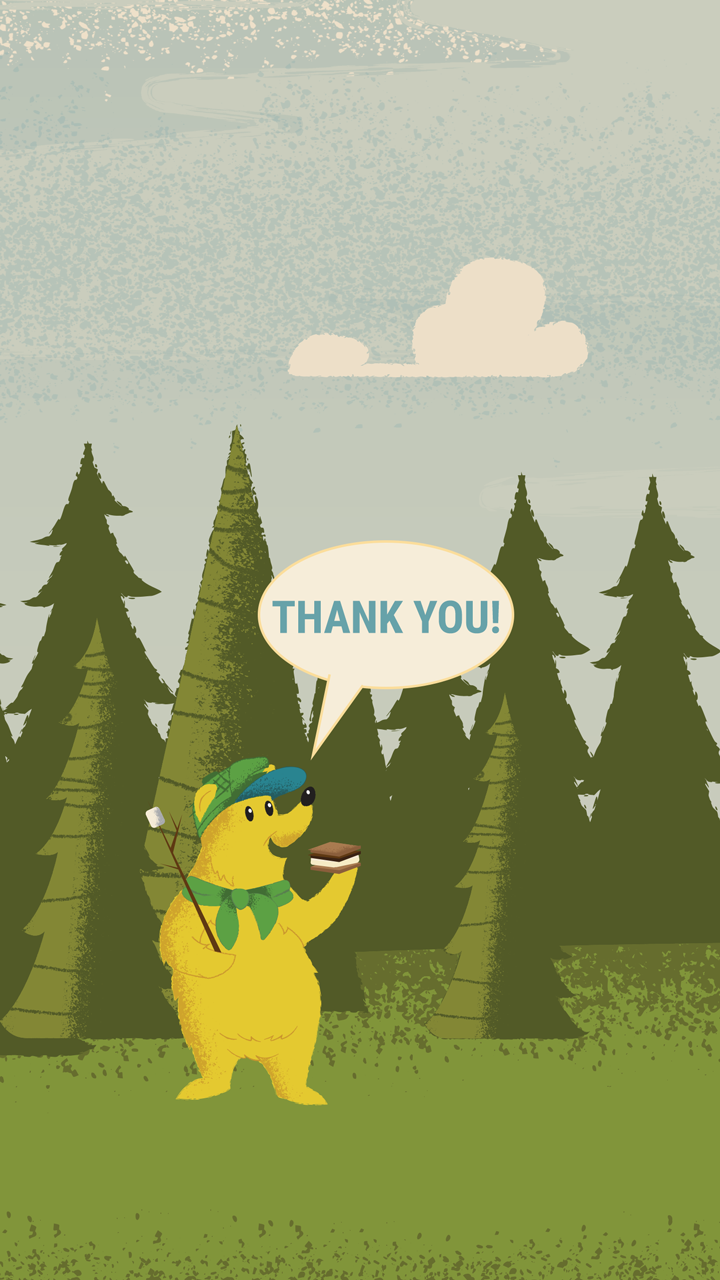
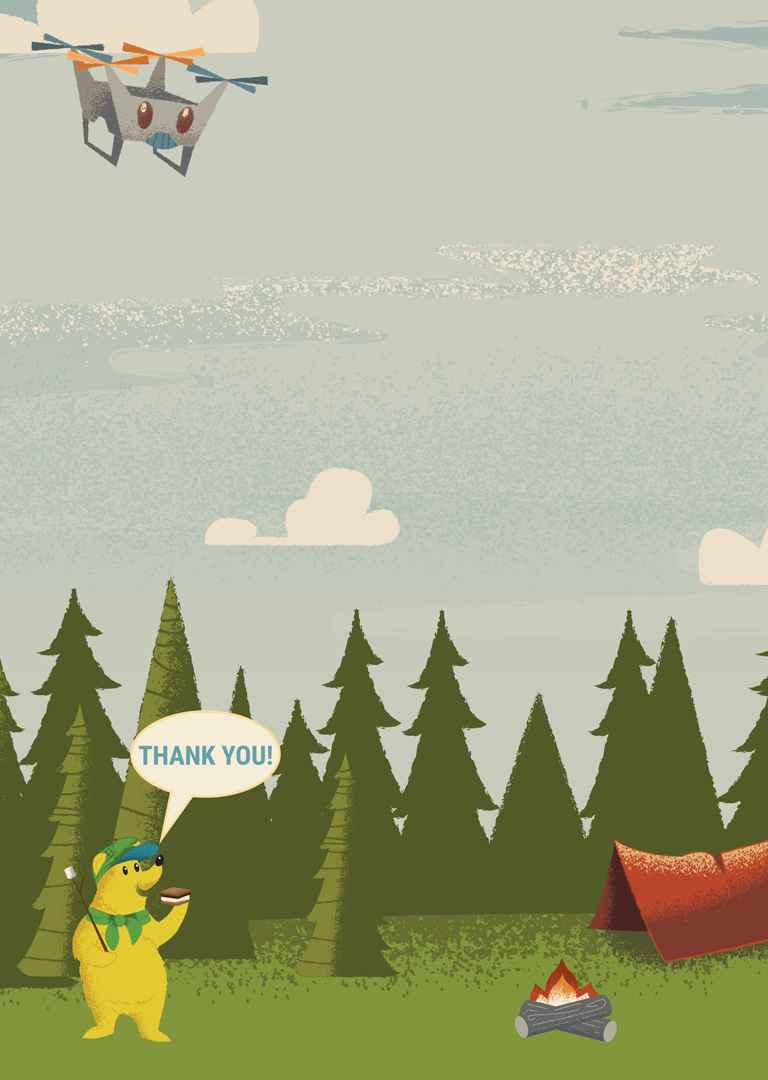
:lipstick: modifying screens to work on larger Kalahari screens

diff --git a/src/components/Room/Footer.css b/src/components/Room/Footer.css
@@ -5,10 +5,22 @@
   grid-template-columns: minmax(100px, 1.5fr) minmax(100px, 4fr) minmax(100px, 1.5fr);
   background: rgba(193, 231, 255, .3);
 }
+/* Targeting Large Kalahari Screens */
+@media screen and (min-width: 767px) and (max-width: 769px) {
+  .footer {
+    grid-template-columns: minmax(100px, 1.5fr) minmax(100px, 4fr) minmax(100px, 1.5fr);
+  }
+}
 
 /* ********** Up Next ********** */
 .footer__text {
   margin-top: -1.25rem;
+}
+/* Targeting Large Kalahari Screens */
+@media screen and (min-width: 767px) and (max-width: 769px) {
+  .footer__text {
+    margin-top: 0;
+  }
 }
 
 .footer__upNext {
@@ -18,6 +30,12 @@
   display: grid;
   align-content: center;
 }
+/* Targeting Large Kalahari Screens */
+@media screen and (min-width: 767px) and (max-width: 769px) {
+  .footer__upNext {
+    padding-left: 2rem;
+  }
+}
 .footer__upNext-session {
   padding: 1.5rem;
   padding-right: .75rem;
@@ -26,6 +44,12 @@
 }
 .footer_upNext_speaker {
   padding-left: 2rem;
+}
+/* Targeting Large Kalahari Screens */
+@media screen and (min-width: 767px) and (max-width: 769px) {
+  .footer_upNext_speaker {
+    padding-left: 0;
+  }
 }
 
 /* ********** Current Time & Warnings ********** */

diff --git a/src/components/Room/Sponsors.css b/src/components/Room/Sponsors.css
@@ -1,6 +1,6 @@
 /* =============== Sponsors =============== */
 .sponsors {
-  background-image: url('../DS-Sponsors-Background-Tall.png');
+  background-image: url('../DS-Sponsors-Background.png');
   background-position: 35% 35%;
   background-size: cover;
   overflow: hidden;
@@ -9,10 +9,10 @@
   justify-content: center;
   align-items: center;
 }
-/* 721px+ */
-@media screen and (min-height: 1024px) {
+/* Targeting Large Kalahari Screens */
+@media screen and (min-width: 767px) and (max-width: 769px) {
   .sponsors {
-    background-image: url('../DS-Sponsors-Background.png');
+    background-image: url('../DS-Sponsors-Background-Tall.png');
     background-position: 35% 35%;
   }
 }

diff --git a/src/components/Room/Room.css b/src/components/Room/Room.css
@@ -12,3 +12,9 @@
   overflow: hidden;
   font-size: 1.5em;
 }
+/* Targeting Large Kalahari Screens */
+@media screen and (min-width: 767px) and (max-width: 769px) {
+  .room {
+    grid-template-rows: minmax(100px, 8fr) minmax(100px, 1fr);
+  }
+}
